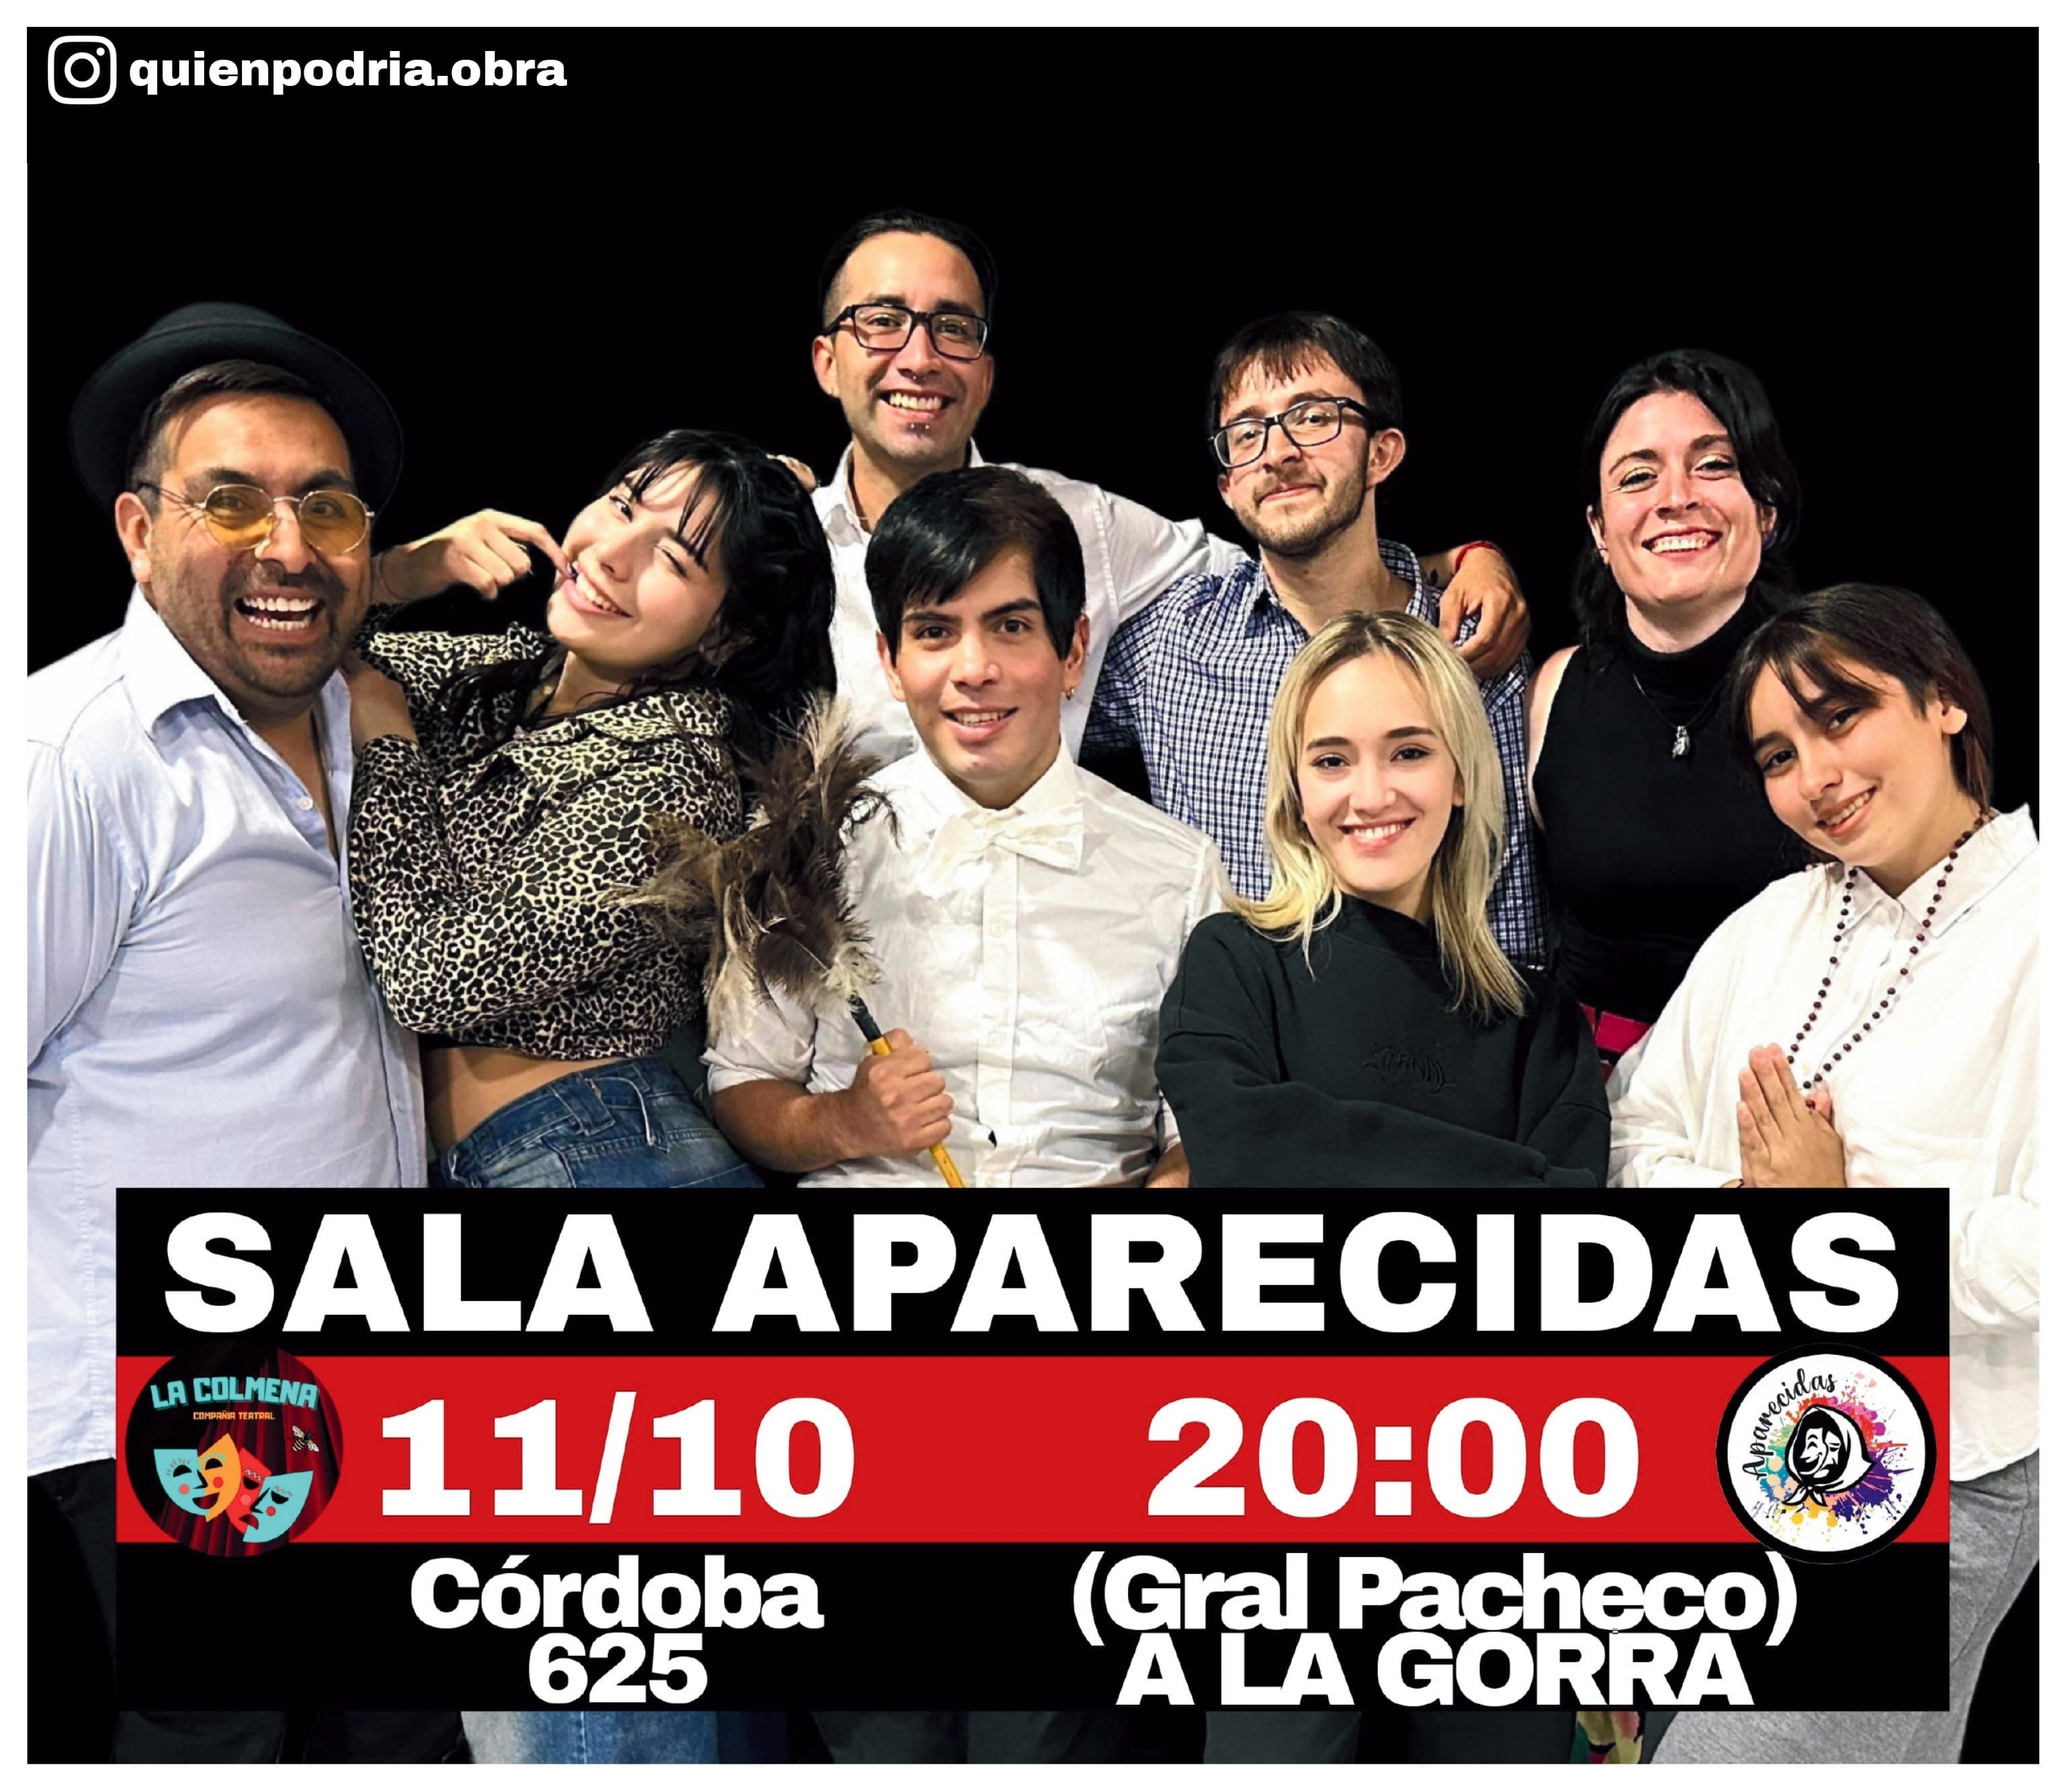
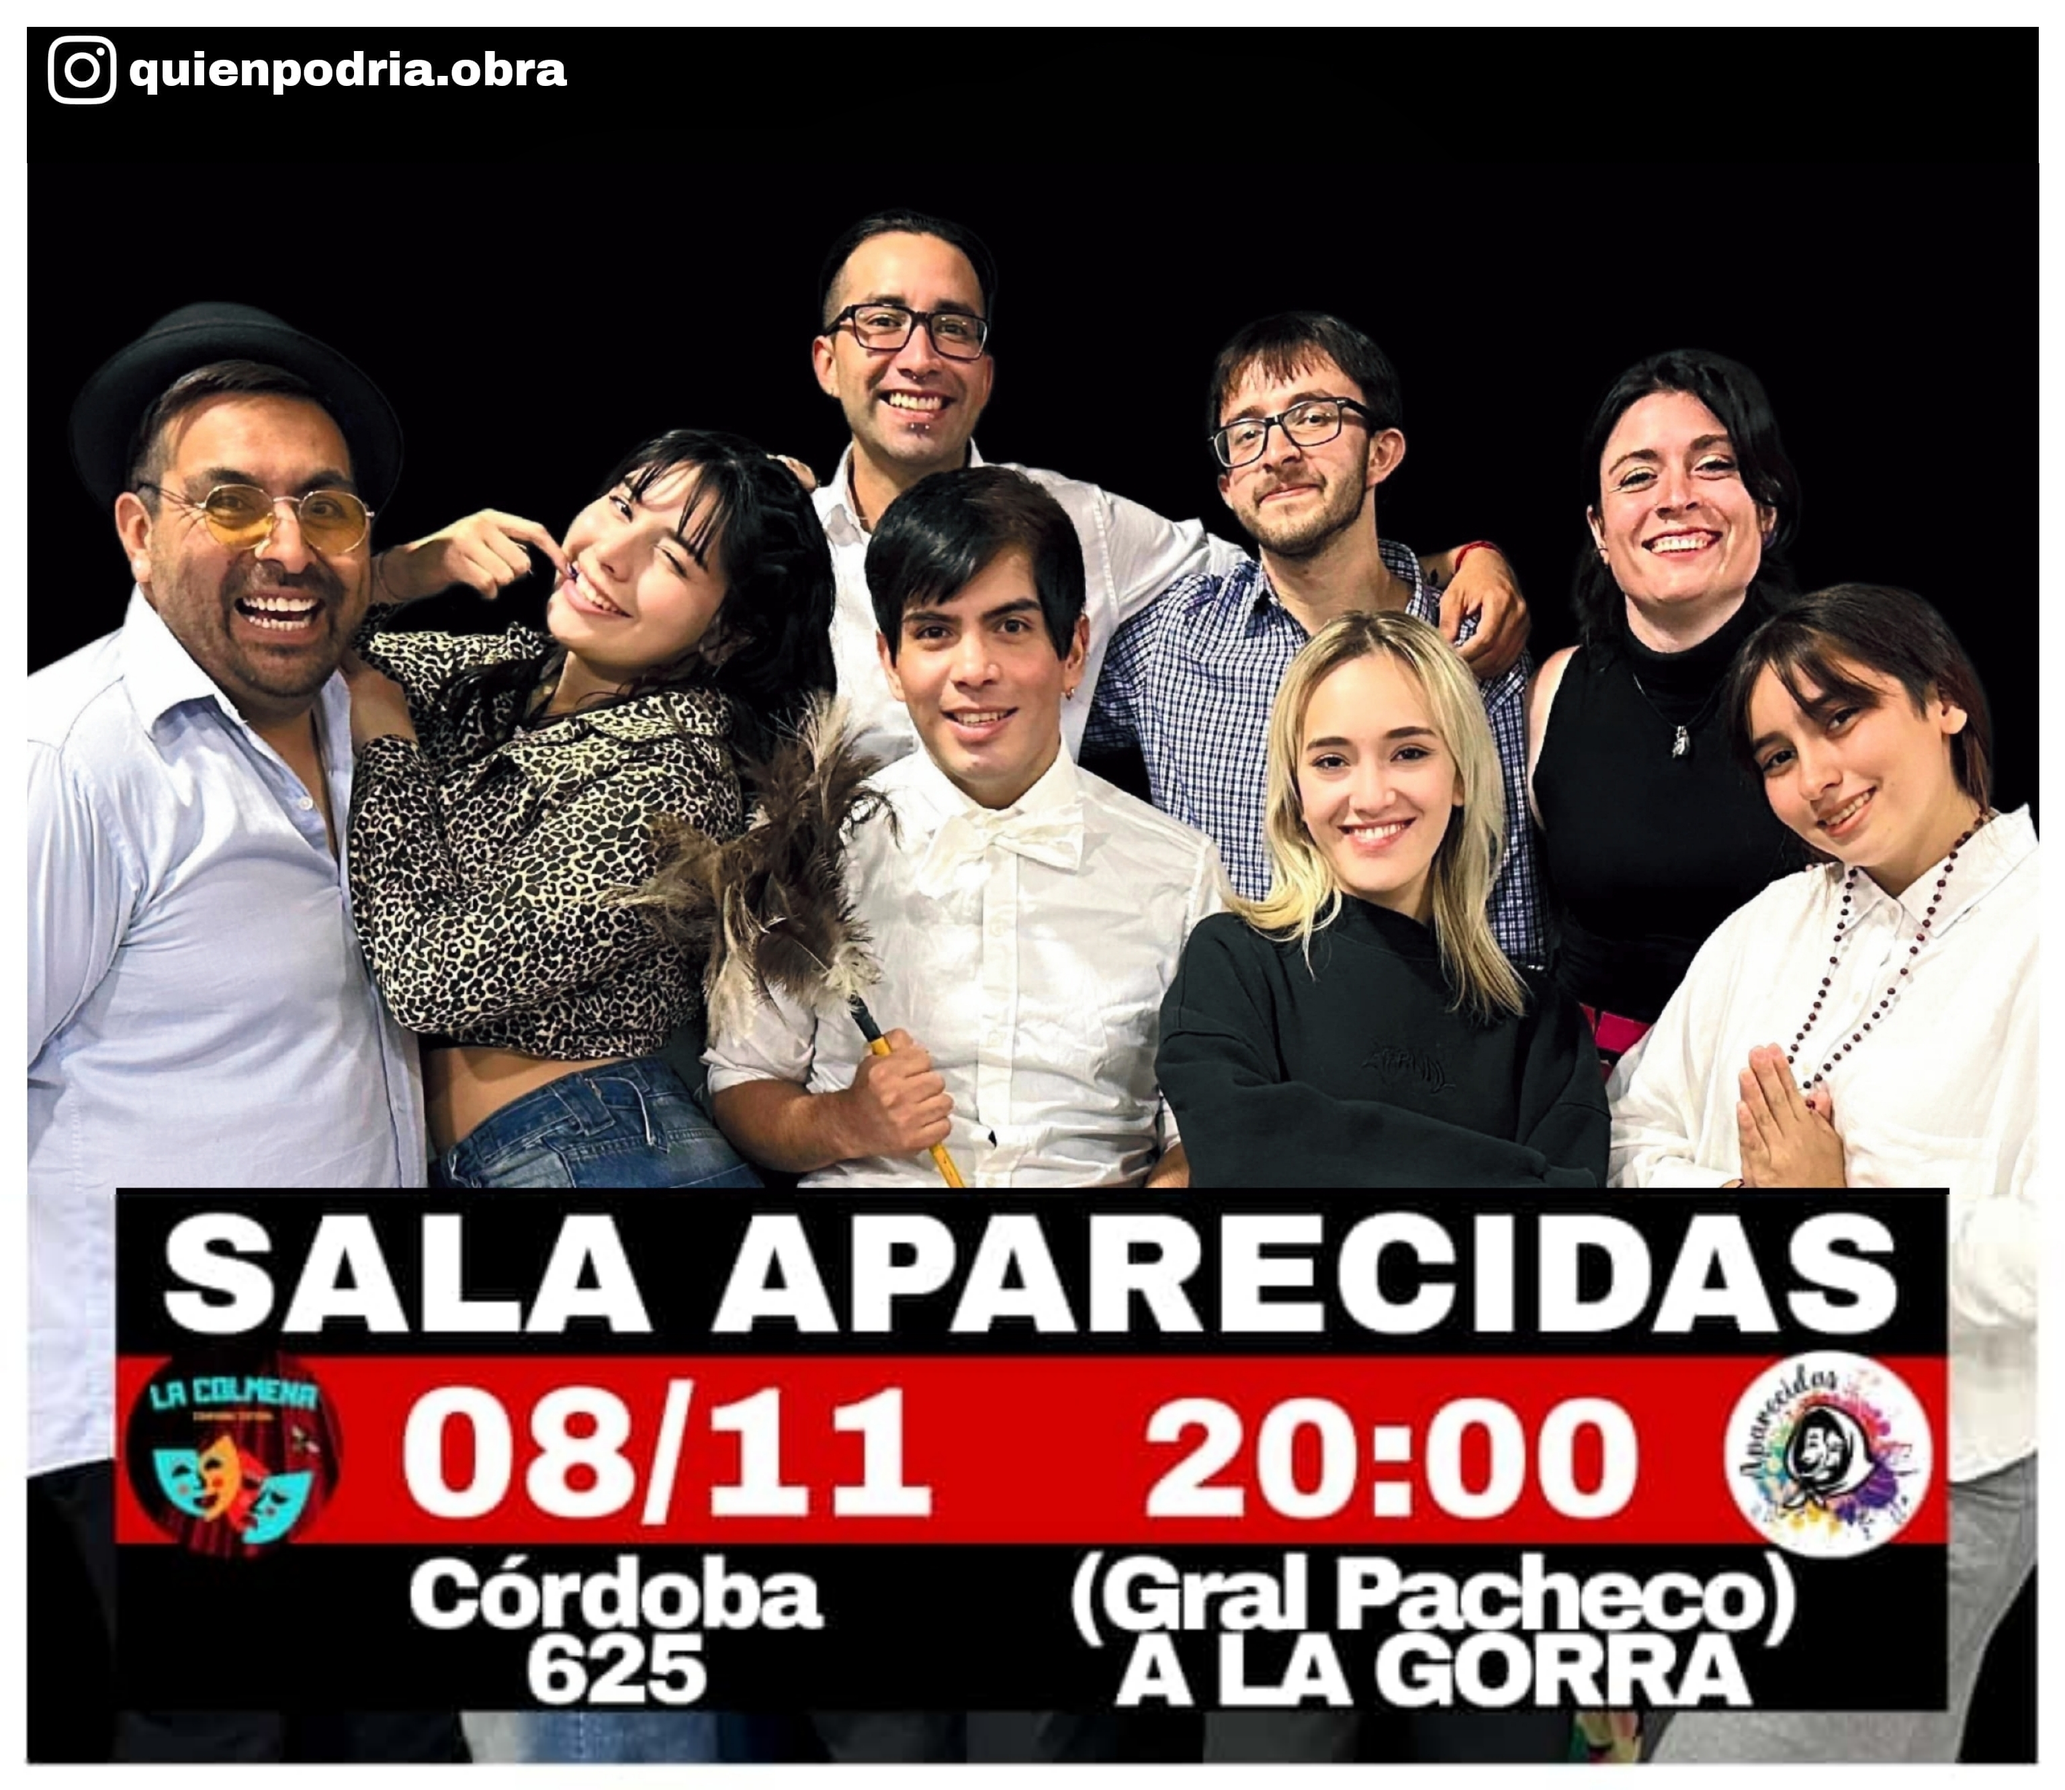
Add next date

Changed region(s): [[0.0312, 0.6849, 0.9993, 0.9962], [0.9369, 0.9029, 0.9681, 0.9651]]

diff --git a/src/App.tsx b/src/App.tsx
@@ -318,7 +318,7 @@ function App() {
                   <Calendar className="info-icon" />
                   <div>
                     <strong>Próxima Fecha</strong>
-                    <p>Sábado 11 de Octubre  20:00hs</p>
+                    <p>Viernes 8 de Noviembre  20:00hs</p>
                   </div>
                 </div>
                 <div className="info-item reveal-right">
